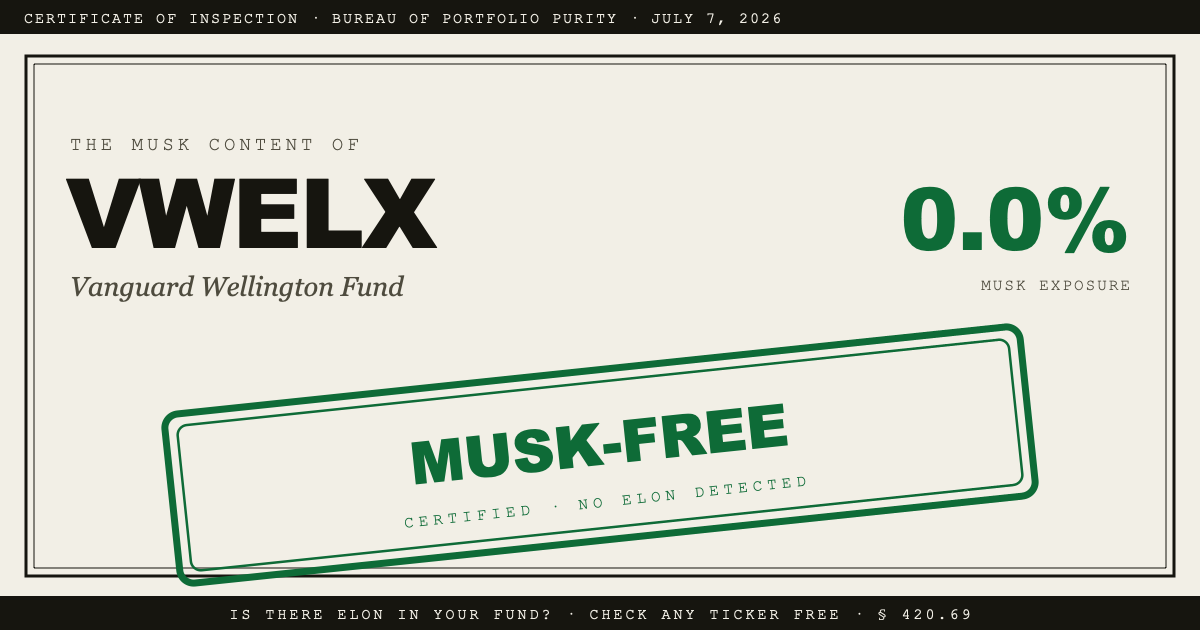
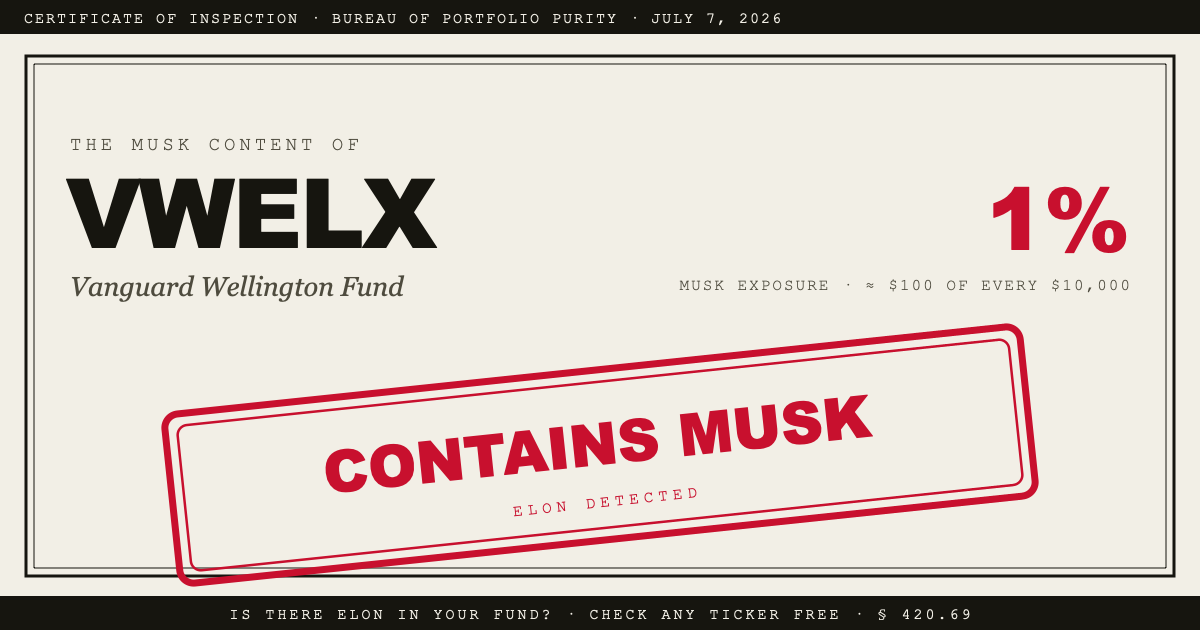
SEC N-PORT verification for mutual funds: full-portfolio scans in nightly pipeline
- ticker→series via company_tickers_mf.json, latest NPORT-P via EDGAR full-text search
- fund-of-funds guard (zeros not affirmative), pre-IPO filings can't zero SPCX
- registry corrections N-PORT proved wrong: VWELX holds 1% TSLA, BPTRX is 60.7% Musk, FDGRX 2.9% SpaceX
- verdict tier fix (EXTREMELY MUSKY up to 85%), mutual funds skip CORS-less live endpoints

diff --git a/app.js b/app.js
@@ -53,7 +53,7 @@
     if (x < 0.5) return { key: "trace", stamp: "TRACE MUSK", sub: "HOMEOPATHIC LEVELS", cls: "olive", short: "TRACE MUSK", tone: "bad" };
     if (x < 5) return { key: "contains", stamp: "CONTAINS MUSK", sub: "ELON DETECTED", cls: "red", short: "CONTAINS MUSK ✗", tone: "bad" };
     if (x < 15) return { key: "high", stamp: "HIGH MUSK CONTENT", sub: "SUBSTANTIAL ELON WITHIN", cls: "red", short: "HIGH MUSK", tone: "bad" };
-    if (x < 60) return { key: "extreme", stamp: "EXTREMELY MUSKY", sub: "APPROACH WITH CAUTION", cls: "red", short: "EXTREMELY MUSKY", tone: "bad" };
+    if (x < 85) return { key: "extreme", stamp: "EXTREMELY MUSKY", sub: "APPROACH WITH CAUTION", cls: "red", short: "EXTREMELY MUSKY", tone: "bad" };
     if (x <= 100) return { key: "pure", stamp: "PURE UNCUT MUSK", sub: "THIS IS THE MUSK", cls: "red", short: "100% MUSK", tone: "bad" };
     return { key: "leveraged", stamp: "LEVERAGED MUSK", sub: "MORE MUSK THAN MONEY", cls: "red", short: "LEVERAGED MUSK", tone: "bad" };
   }
@@ -373,7 +373,11 @@
       '<h1 class="cert-ticker">' + esc(f.t) + "</h1>" +
       '<p class="cert-fullname">' + esc(f.n) + "</p>" +
       '<p class="cert-meta"><span>' + metaBits + "</span>" +
-      (f.dailyVerified ? '<span class="dv-chip">✓ verified by daily scan · ' + esc(f.dailyVerified.date) + "</span>" : "") +
+      (f.dailyVerified
+        ? '<span class="dv-chip">' + (f.dailyVerified.src === "nport"
+          ? "✓ verified via SEC N-PORT filing · holdings as of " + esc(f.dailyVerified.asof || "last quarter")
+          : "✓ verified by daily scan · " + esc(f.dailyVerified.date)) + "</span>"
+        : "") +
       "</p>" +
       '<div class="cert-stampzone">' + stampHTML(f, "lg") + "</div>" +
       dollarLine +
@@ -1189,9 +1193,20 @@
       var f = byTicker[t];
       var rec = overlay.funds[t];
       if (!f || f.special) return;
-      if (rec.tsla > 0) f.tsla = rec.tsla;
-      if (rec.spcx > 0) f.spacex = rec.spcx;
-      f.dailyVerified = { date: date, cov: rec.cov, aum: rec.aum, er: rec.er };
+      if (rec.src === "nport") {
+        /* N-PORT is the complete portfolio — zeros are affirmative too,
+           EXCEPT for SPCX in filings dated before its index-inclusion wave
+           (June 2026): those filings couldn't have held it yet. */
+        f.tsla = rec.tsla;
+        if (rec.spcx > 0 || (rec.asof && rec.asof >= "2026-06-18")) {
+          f.spacex = rec.spcx;
+          f.unverified = false;
+        }
+      } else {
+        if (rec.tsla > 0) f.tsla = rec.tsla;
+        if (rec.spcx > 0) f.spacex = rec.spcx;
+      }
+      f.dailyVerified = { date: date, cov: rec.cov, aum: rec.aum, er: rec.er, src: rec.src, asof: rec.asof };
     });
     route(); // re-render current view with verified numbers
   }

diff --git a/f/VWELX.html b/f/VWELX.html
@@ -2,18 +2,18 @@
 <html lang="en">
 <head>
 <meta charset="UTF-8" />
-<title>VWELX: MUSK-FREE — Musk-Free Certified™</title>
-<meta name="description" content="Vanguard Wellington Fund — 0.0% Musk exposure. No Tesla, no SpaceX, no Musk. Certified. Check any ticker free." />
+<title>VWELX: CONTAINS MUSK — Musk-Free Certified™</title>
+<meta name="description" content="Vanguard Wellington Fund — 1% Musk exposure. Invest $10,000 and ~$100 of it is Musk enterprises. Check any ticker free." />
 <meta property="og:type" content="website" />
 <meta property="og:url" content="https://muskfree.example/f/VWELX.html" />
-<meta property="og:title" content="VWELX: MUSK-FREE — Musk-Free Certified™" />
-<meta property="og:description" content="Vanguard Wellington Fund — 0.0% Musk exposure. No Tesla, no SpaceX, no Musk. Certified. Check any ticker free." />
+<meta property="og:title" content="VWELX: CONTAINS MUSK — Musk-Free Certified™" />
+<meta property="og:description" content="Vanguard Wellington Fund — 1% Musk exposure. Invest $10,000 and ~$100 of it is Musk enterprises. Check any ticker free." />
 <meta property="og:image" content="https://muskfree.example/og/VWELX.png" />
 <meta property="og:image:width" content="1200" />
 <meta property="og:image:height" content="630" />
 <meta name="twitter:card" content="summary_large_image" />
-<meta name="twitter:title" content="VWELX: MUSK-FREE — Musk-Free Certified™" />
-<meta name="twitter:description" content="Vanguard Wellington Fund — 0.0% Musk exposure. No Tesla, no SpaceX, no Musk. Certified. Check any ticker free." />
+<meta name="twitter:title" content="VWELX: CONTAINS MUSK — Musk-Free Certified™" />
+<meta name="twitter:description" content="Vanguard Wellington Fund — 1% Musk exposure. Invest $10,000 and ~$100 of it is Musk enterprises. Check any ticker free." />
 <meta name="twitter:image" content="https://muskfree.example/og/VWELX.png" />
 <meta http-equiv="refresh" content="0;url=../#/f/VWELX" />
 <link rel="canonical" href="https://muskfree.example/f/VWELX.html" />

diff --git a/data.js b/data.js
@@ -173,7 +173,7 @@ const FUNDS = [
   { t: "VTTSX", n: "Vanguard Target Retirement 2060", type: "Mutual fund", cat: "Target date", tsla: 0.9, spacex: 0.15, alts: [] },
   { t: "VTHRX", n: "Vanguard Target Retirement 2030", type: "Mutual fund", cat: "Target date", tsla: 0.6, spacex: 0.1, alts: [] },
   { t: "VBIAX", n: "Vanguard Balanced Index Fund", type: "Mutual fund", cat: "60/40 balanced", tsla: 0.9, spacex: 0.15, alts: ["VWELX"] },
-  { t: "VWELX", n: "Vanguard Wellington Fund", type: "Mutual fund", cat: "Active balanced", tsla: 0, note: "Running since 1929 on dividends and value stocks. Has survived 17 recessions, zero Tesla positions, and so far, one SpaceX IPO." },
+  { t: "VWELX", n: "Vanguard Wellington Fund", type: "Mutual fund", cat: "Active balanced", tsla: 1.0, alts: ["DODGX","PRWCX"], note: "Running since 1929 — and per its latest SEC filing, currently running with about 1% Tesla. Even the old guard picked some up. We checked the actual N-PORT so you don't have to." },
 
   /* ---------- Maximum musk ---------- */
   { t: "TSLA",  n: "Tesla, Inc.", type: "Stock", cat: "The original source", tsla: 100, alts: ["F","GM","RIVN"], aliases: ["tesla"], note: "This is not a fund with Musk in it. This is the Musk. 100% by definition, plus the CEO's undivided attention, minus the CEO's undivided attention." },
@@ -183,7 +183,7 @@ const FUNDS = [
   { t: "TSLZ",  n: "T-Rex 2X Inverse Tesla Daily Target ETF", type: "ETF", cat: "Inverse single stock", tsla: -200, alts: [], note: "Minus two hundred percent Musk. The most anti-Musk instrument legally available to a retail investor." },
   { t: "DXYZ",  n: "Destiny Tech100", type: "Closed-end fund", cat: "Private tech", spacex: 16.2, alts: [], aliases: ["destiny"], note: "Bought SpaceX while it was private and rode the IPO up. Still usually trades at a rich premium to asset value — the Musk costs extra here. Also holds a slug of Anthropic now." },
   { t: "XOVR",  n: "ERShares Private-Public Crossover ETF", type: "ETF", cat: "Crossover", spacex: 16.6, tsla: 0.8, alts: [], note: "The first ETF to hold SpaceX shares — back when that required a workaround wrapped in a loophole wrapped in an expense ratio. Now it's just a stock anyone can buy, which rather undercuts the pitch." },
-  { t: "BPTRX", n: "Baron Partners Fund", type: "Mutual fund", cat: "Concentrated growth", tsla: 20.4, spacex: 33.0, alts: [], aliases: ["baron"], note: "One-third SpaceX, one-fifth Tesla: over half this mutual fund is Musk enterprises. Ron Baron bought SpaceX privately for a decade and has said he'll hold for decades more. He is not bluffing." },
+  { t: "BPTRX", n: "Baron Partners Fund", type: "Mutual fund", cat: "Concentrated growth", tsla: 20.4, spacex: 33.0, alts: [], aliases: ["baron"], note: "Per its own SEC filing (March 2026): 23% Tesla plus 37% SpaceX across share classes — roughly SIXTY percent of this mutual fund is Musk enterprises. The most Musk-concentrated fund in America, now with government paperwork to prove it." },
   { t: "BFGFX", n: "Baron Focused Growth Fund", type: "Mutual fund", cat: "Concentrated growth", tsla: 9.0, spacex: 12.0, alts: [] },
 
   /* ---------- Musk private companies (searchable) ---------- */
@@ -285,7 +285,7 @@ FUNDS.push(
   { t: "VTINX", n: "Vanguard Target Retirement Income", type: "Mutual fund", cat: "Target date", tsla: 0.3, spacex: 0.04, alts: [] },
   { t: "FDKLX", n: "Fidelity Freedom Index 2060", type: "Mutual fund", cat: "Target date", tsla: 0.9, unverified: true, alts: [] },
   { t: "FCNTX", n: "Fidelity Contrafund", type: "Mutual fund", cat: "Active large growth", tsla: 0, unverified: true, note: "Historically a Meta-and-Berkshire shop with no Tesla habit — but it held private SpaceX in the past. Actively managed; verify current holdings." },
-  { t: "FDGRX", n: "Fidelity Growth Company Fund", type: "Mutual fund", cat: "Active large growth", tsla: 1.5, unverified: true, note: "Held private SpaceX pre-IPO. Post-IPO positioning is the manager's call — check the latest report." },
+  { t: "FDGRX", n: "Fidelity Growth Company Fund", type: "Mutual fund", cat: "Active large growth", tsla: 1.9, spacex: 2.9, note: "Bought SpaceX while private and kept it through the IPO — its SEC filing shows nearly 3%, one of the larger mainstream-fund SpaceX bets." },
   { t: "TRBCX", n: "T. Rowe Price Blue Chip Growth Fund", type: "Mutual fund", cat: "Active large growth", tsla: 1.0, unverified: true, alts: ["VTV"] },
   { t: "DODGX", n: "Dodge & Cox Stock Fund", type: "Mutual fund", cat: "Active value", tsla: 0, note: "Old-school value discipline since 1965. Musk multiples need not apply." },
   { t: "PRWCX", n: "T. Rowe Price Capital Appreciation Fund", type: "Mutual fund", cat: "Active balanced", tsla: 0 },

diff --git a/f/FDGRX.html b/f/FDGRX.html
@@ -3,17 +3,17 @@
 <head>
 <meta charset="UTF-8" />
 <title>FDGRX: CONTAINS MUSK — Musk-Free Certified™</title>
-<meta name="description" content="Fidelity Growth Company Fund — 1.5% Musk exposure. Invest $10,000 and ~$150 of it is Musk enterprises. Check any ticker free." />
+<meta name="description" content="Fidelity Growth Company Fund — 4.8% Musk exposure. Invest $10,000 and ~$480 of it is Musk enterprises. Check any ticker free." />
 <meta property="og:type" content="website" />
 <meta property="og:url" content="https://muskfree.example/f/FDGRX.html" />
 <meta property="og:title" content="FDGRX: CONTAINS MUSK — Musk-Free Certified™" />
-<meta property="og:description" content="Fidelity Growth Company Fund — 1.5% Musk exposure. Invest $10,000 and ~$150 of it is Musk enterprises. Check any ticker free." />
+<meta property="og:description" content="Fidelity Growth Company Fund — 4.8% Musk exposure. Invest $10,000 and ~$480 of it is Musk enterprises. Check any ticker free." />
 <meta property="og:image" content="https://muskfree.example/og/FDGRX.png" />
 <meta property="og:image:width" content="1200" />
 <meta property="og:image:height" content="630" />
 <meta name="twitter:card" content="summary_large_image" />
 <meta name="twitter:title" content="FDGRX: CONTAINS MUSK — Musk-Free Certified™" />
-<meta name="twitter:description" content="Fidelity Growth Company Fund — 1.5% Musk exposure. Invest $10,000 and ~$150 of it is Musk enterprises. Check any ticker free." />
+<meta name="twitter:description" content="Fidelity Growth Company Fund — 4.8% Musk exposure. Invest $10,000 and ~$480 of it is Musk enterprises. Check any ticker free." />
 <meta name="twitter:image" content="https://muskfree.example/og/FDGRX.png" />
 <meta http-equiv="refresh" content="0;url=../#/f/FDGRX" />
 <link rel="canonical" href="https://muskfree.example/f/FDGRX.html" />

diff --git a/live.js b/live.js
@@ -120,9 +120,12 @@ var LIVE = (function () {
     });
   }
 
-  /* Live enrichment for a registry fund: quote + overview + scan */
+  /* Live enrichment for a registry fund: quote + overview + scan.
+     Mutual funds are skipped — their API endpoints don't serve CORS
+     and their verification comes from SEC N-PORT via the overlay. */
   function enrich(f) {
     var kind = kindOf(f);
+    if (kind === "mutf") return Promise.resolve(null);
     var wants = [quote(kind, f.t), overview(kind, f.t)];
     var scannable = kind === "e" || f.type === "Closed-end fund";
     if (scannable) wants.push(holdings(f.t));